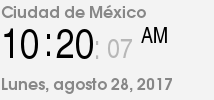
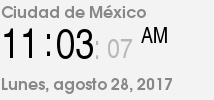
update images 28-08-2017 11:03

Changed region(s): [[0.2523, 0.3, 0.4486, 0.6], [0.0841, 0.27, 0.1963, 0.6]]

diff --git a/README.md b/README.md
@@ -13913,3 +13913,6 @@
 |28-08-2017 10:03
 |28-08-2017 10:11
 |28-08-2017 10:20
+|28-08-2017 10:40
+|28-08-2017 10:50
+|28-08-2017 11:03
